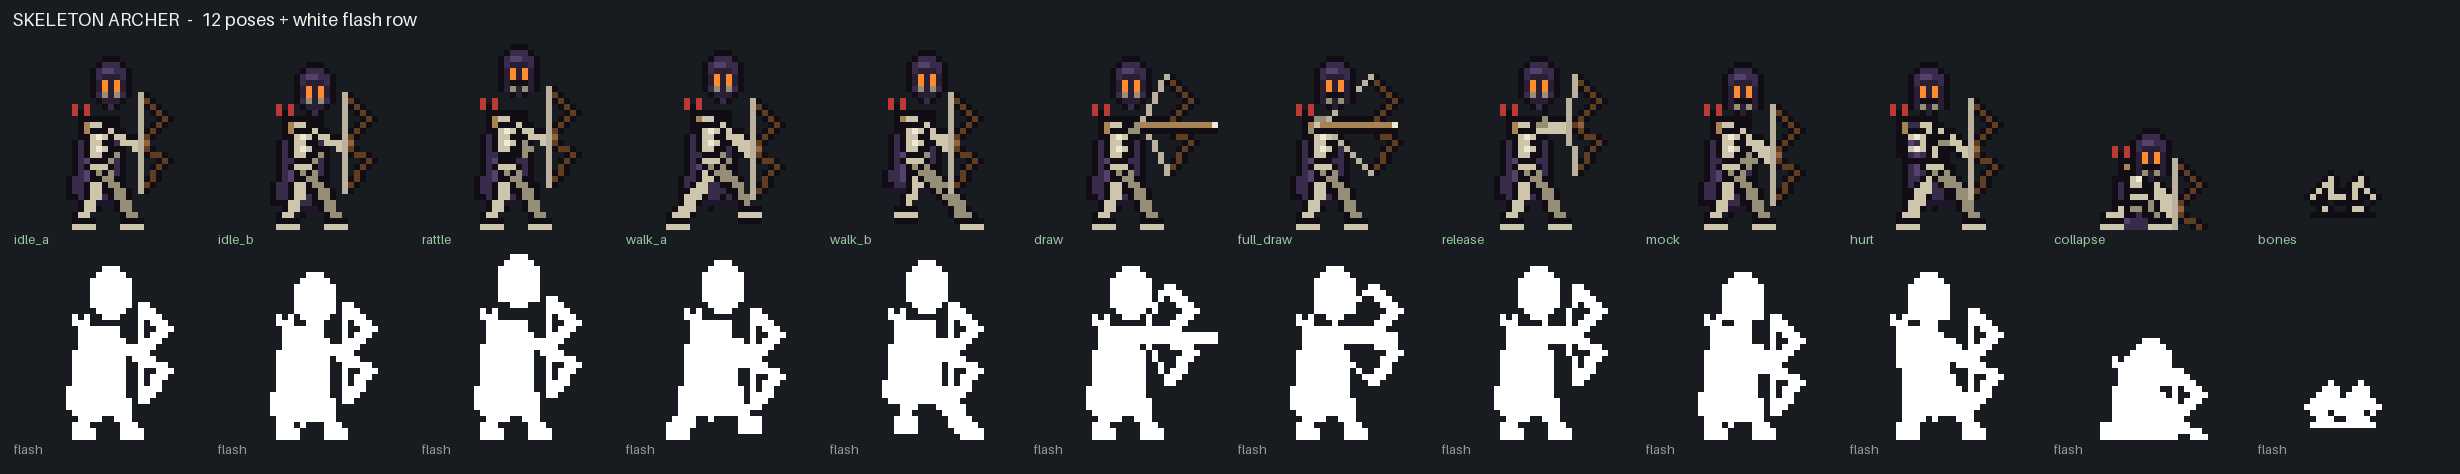
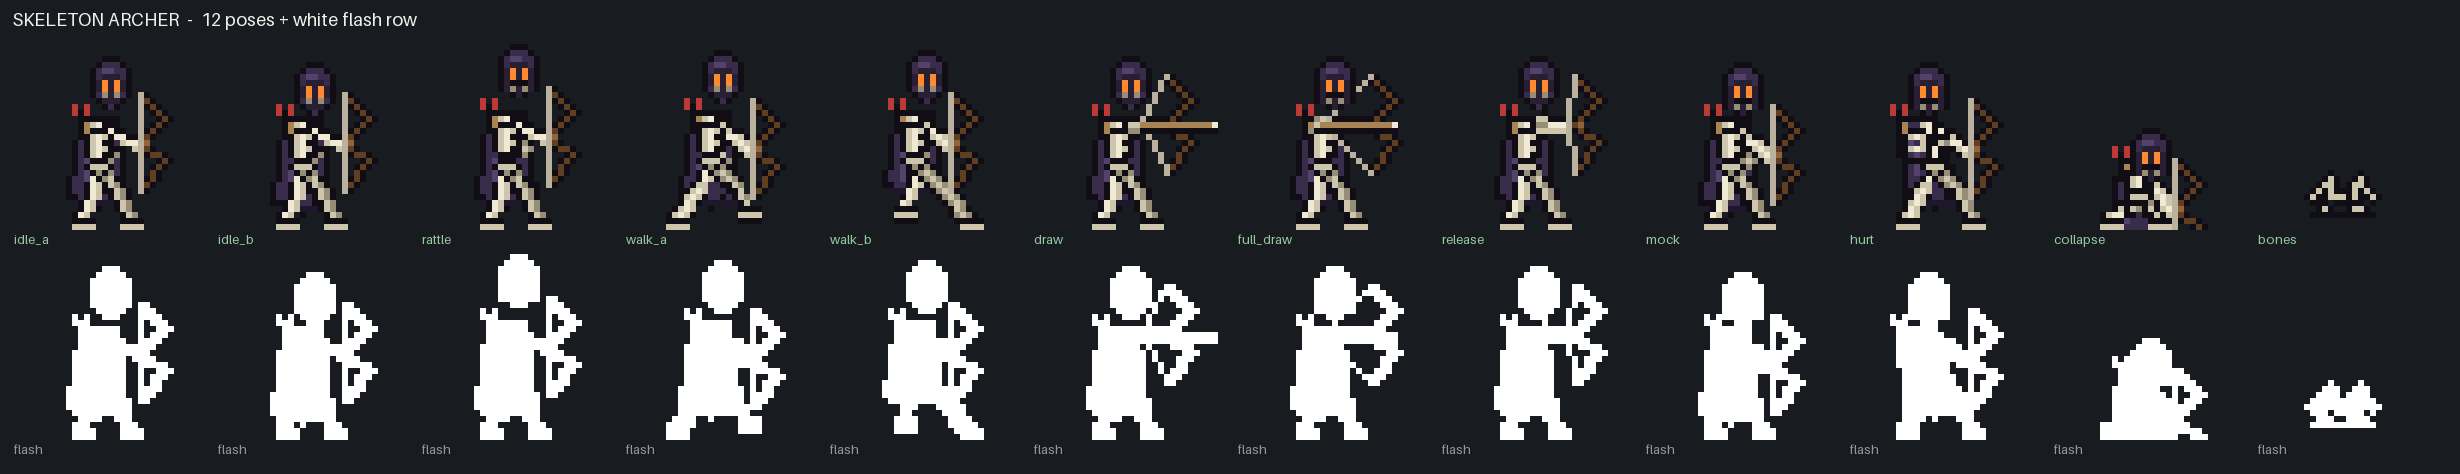
Archer art: brighten thin bones to a three-band core
The 2x gameplay zoom showed the limbs going muddy: a 3 px outline over a
2 px flat core leaves almost no lit bone. Limbs are now rim / mid / highlight
(1 px each), and docs/images/archer_game_zoom.png pins the rig at the camera
zoom the player actually sees, next to a slime for scale.

diff --git a/tools/make_archer_sprites.py b/tools/make_archer_sprites.py
@@ -175,12 +175,14 @@ def limb(img: Image.Image, p0, p1, shade: bool = False) -> None:
     darker, so two bones crossing each other never melt into one bright
     blob. That single trick is what makes the pose readable at 2x.
 
-    Widths: 3 px of outline + a 2 px core. The first draft used 4 + 3 + 2
-    (three bands) and the legs fused into a pair of trousers - a skeleton
-    has to be THIN before it can read as a skeleton.
+    Widths: 3 px of outline, a 2 px mid band and a 1 px highlight core.
+    The first draft used 4 + 3 + 2 (no highlight) and the legs fused into a
+    pair of trousers at gameplay zoom - a skeleton has to be THIN to read as
+    a skeleton, and the highlight is what keeps thin bones from going dark.
     """
     line(img, p0, p1, PAL["outline"], width=3)
     line(img, p0, p1, PAL["bone_lo"] if shade else PAL["bone"], width=2)
+    line(img, p0, p1, PAL["bone"] if shade else PAL["bone_hi"], width=1)
 
 
 def foot(img: Image.Image, at) -> None:

diff --git a/docs/ARCHER_REDESIGN.md b/docs/ARCHER_REDESIGN.md
@@ -62,13 +62,16 @@ Three pillars, in priority order:
 - **32×32 frames**, ground line at `y = 30`, figure ~26 px tall, feet on the
   origin (the scene's `Shadow` stays where it is).
 - **One outline colour** (`#100E14`) closes the silhouette, like the slime.
-- **Thin before anything else.** The first rig drew 4/3/2 px limbs and the two
-  legs fused into a pair of trousers; a skeleton only reads as a skeleton when
-  the bones are thin. Limbs are 3 px of outline around a 2 px core.
+- **Thin before anything else.** The first rig drew fat limbs and the two legs
+  fused into a pair of trousers; a skeleton only reads as a skeleton when the
+  bones are thin — 1 px dark rim, 1 px mid, 1 px highlight.
 - **Bone is banded**, never a flat fill: `bone_hi #F0EAD4` / `bone #CEC6AC` /
-  `bone_lo #968E76`. Ribs, skull and pelvis use all three. Limbs are too thin
-  for three bands, so the *far* limb (the one behind the body) is drawn a band
-  darker — that is what keeps a wide stance from collapsing into one blob.
+  `bone_lo #968E76`. Ribs, skull, pelvis and every limb use all three. The
+  *far* limb (the one behind the body) is drawn one band darker — that is what
+  keeps a wide stance from collapsing into one blob.
+- **Check it at 2×, not at 10×.** Clean pixel art can still go muddy at the
+  camera's real zoom; `images/archer_game_zoom.png` is the sheet rendered at
+  exactly the size the player sees, with a slime next to it for scale.
 - **Cloak is the dark frame**: `#382C4A` base, `#54426C` highlight, so the pale
   bones pop out of it.
 - **Two embers per face**, `#FF8A30` with a `#FFE096` core pixel. The eyes are
@@ -185,6 +188,9 @@ every number in `archer.gd` and every existing archer test keeps its meaning.
 | `scripts/enemies/archer.gd` | AI only. Aim progress → `play_draw()`, shot → `play_release()` (+ a 1-in-3 head tilt), hit → `play_hurt()` + white flash, death → `play_death()` (no more 90° rotation). |
 | `scenes/enemies/Archer.tscn` | `Visuals` is a `Node2D` (script) with `Shadow` + `Body` (`hframes 12`, `vframes 2`). The old bob `AnimationPlayer` is gone. |
 | `tests/archer_test.gd` | section 7: sheet size, facing, walk/idle frames, draw → release → mock → hurt, flash row, collapse → bone heap, and a pin on every gameplay number the redesign promised to leave alone. |
+| `docs/images/archer_game_zoom.png` | the rig at the game's 2× camera zoom, next to a slime for scale. |
+
+![At gameplay zoom](images/archer_game_zoom.png)
 
 **Frame maths**: `frame = pose + (flashing ? 12 : 0)`, with
 `pose` in `0..11` in the order of section 5 and `hframes = 12`, `vframes = 2`.
